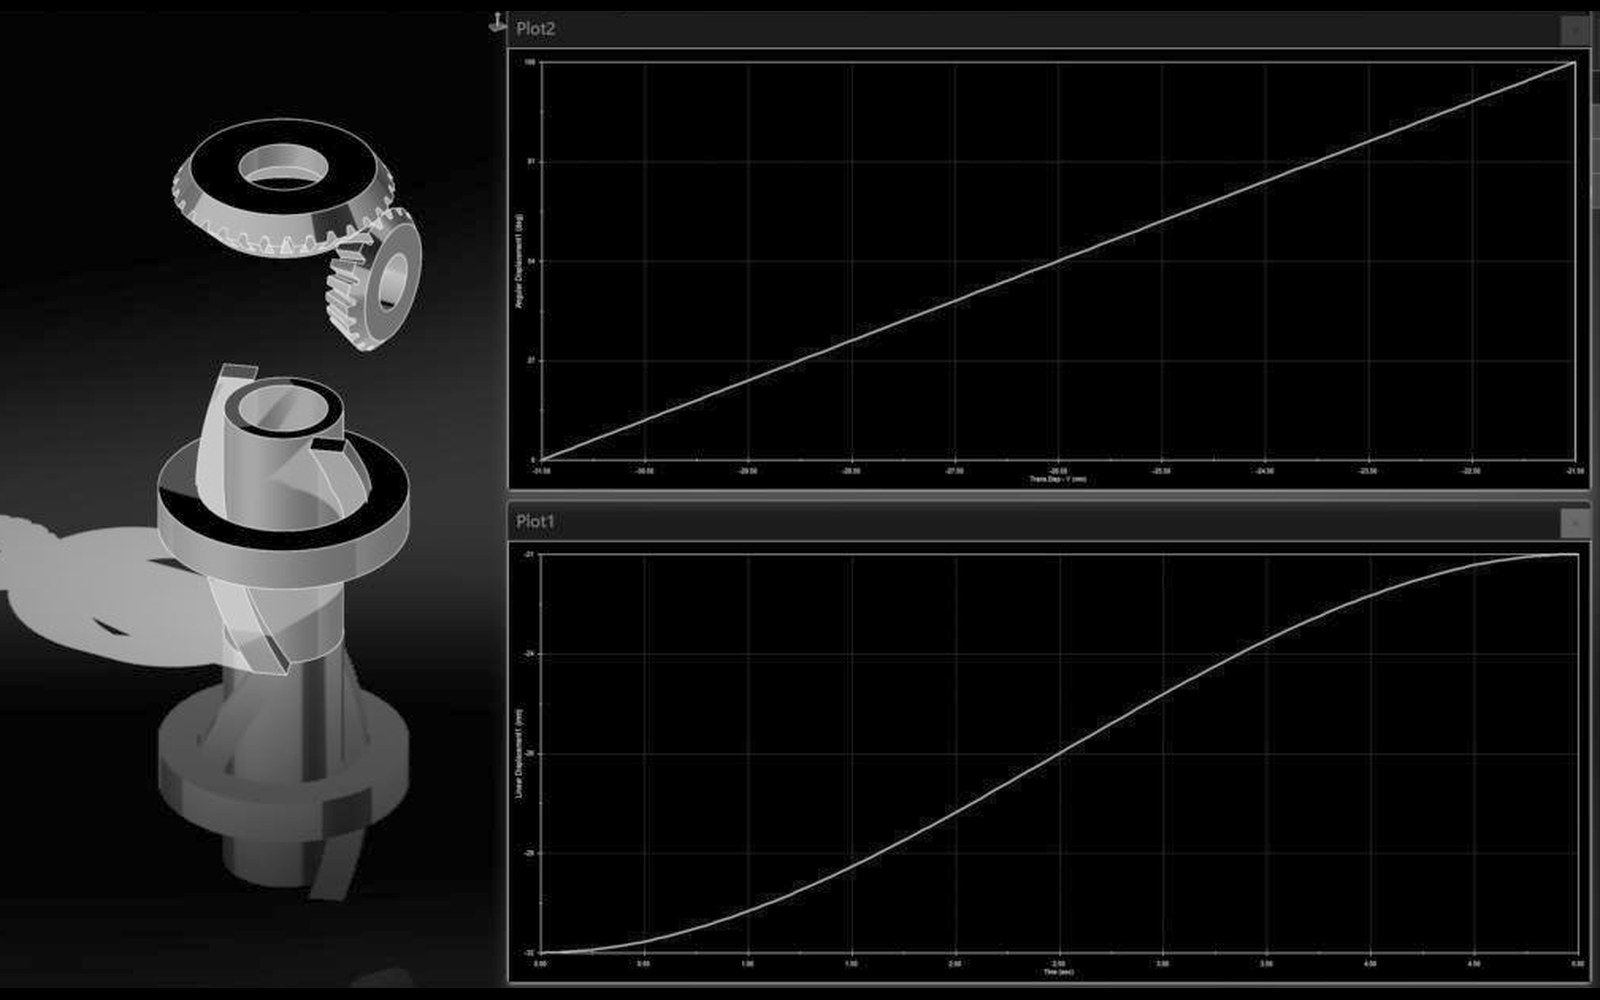
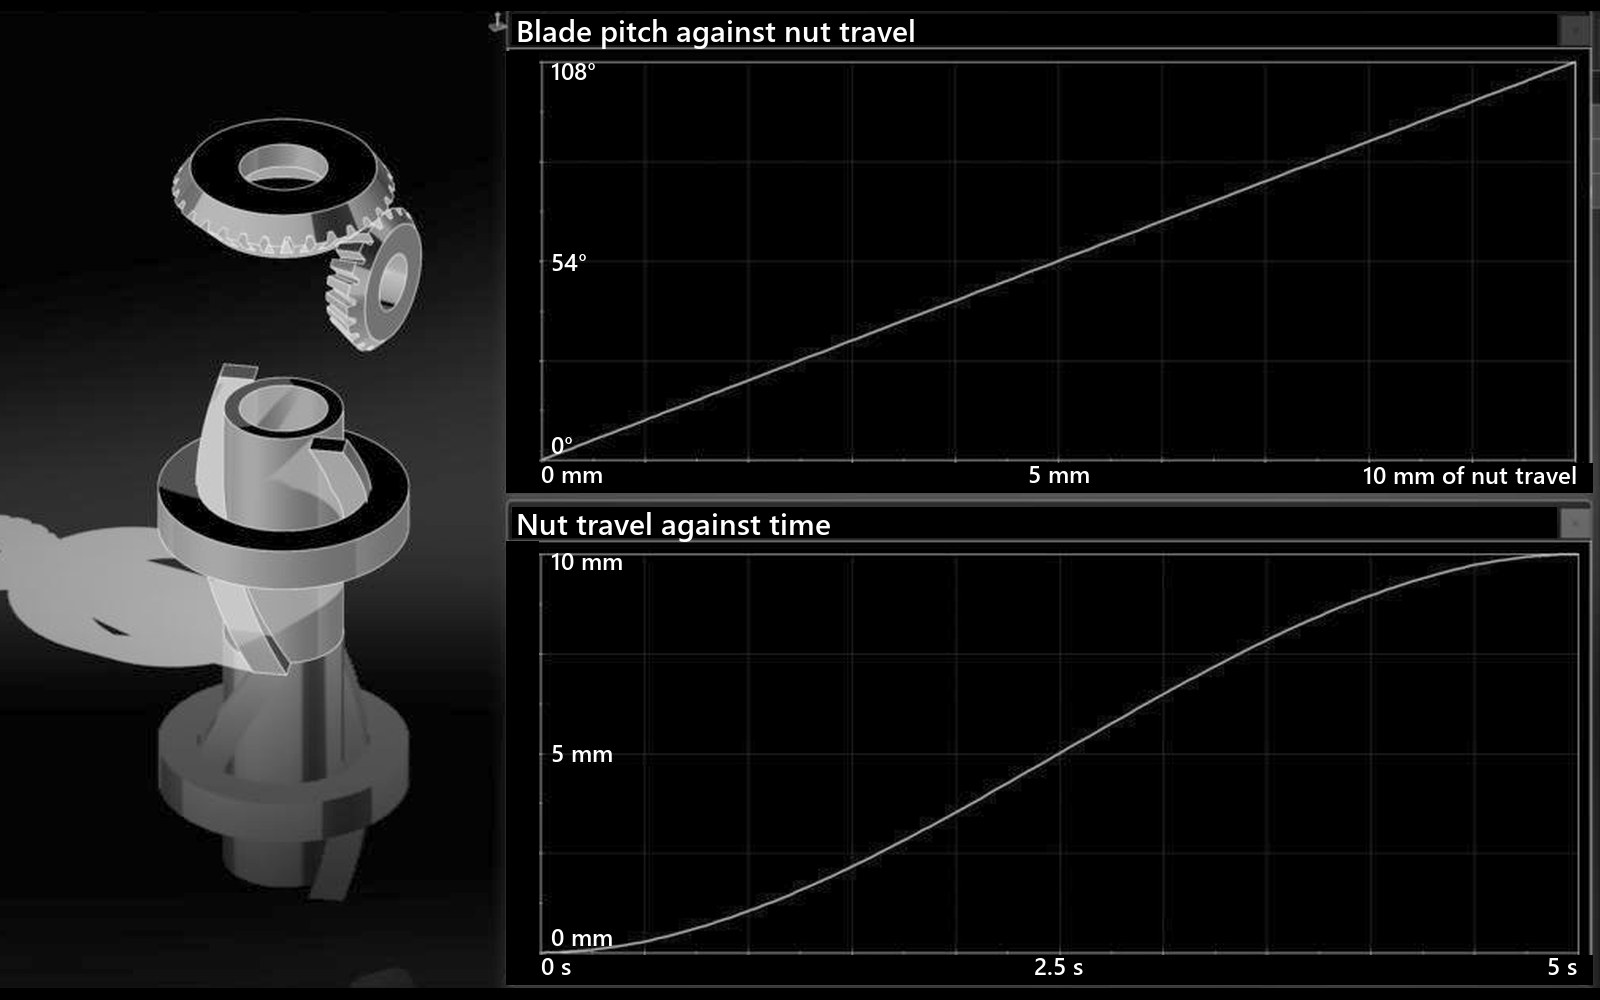
Windpack: relay out the one minute section, label the motion graphs, gears are resin
The one minute cards, the classes and the year two numbers become rows instead
of three column grids and bold lead labels. The classes heading names Dynamics,
Mechanics of Materials and Multivariable Calculus, and the calculus row shows
the helix tangent (59 degrees) and arc length (20.6 mm). The motion study image
gets readable titles and axis labels. The gears are printed in Clear V5 resin,
so the page no longer says metal; step 05 keeps the analysis's call for steel.

diff --git a/projects/windpack.html b/projects/windpack.html
@@ -72,30 +72,37 @@
 
     <section id="glance">
       <h2>The one minute version</h2>
-      <div class="tldr pics">
-        <div>
+      <ol class="arc">
+        <li>
           <img src="/assets/covers/windpack-checkin.jpg" width="1600" height="1000" loading="lazy"
                alt="Four Windpack members at check in for the Collegiate Wind Competition, in front of the competition banner">
-          <p class="tldr-k">What the competition scores</p>
-          <p>A 45 cm turbine in a wind tunnel, scored on power, control, safety and survival.
-          Any visible failure ends the test.</p>
-        </div>
-        <div>
+          <div>
+            <h3>What the competition scores</h3>
+            <p>A 45 cm turbine in a wind tunnel, scored on power, control, safety and survival.
+            Any visible failure ends the test.</p>
+          </div>
+        </li>
+        <li>
           <img src="/assets/figs/windpack-pitch-slide.jpg" width="1600" height="1000" loading="lazy"
                alt="Windpack presenting its season one pitch system to the judges, the slide listing motor selection, gear mesh design and blade attachment as the main issues">
-          <p class="tldr-k">Year one: we fell short</p>
-          <p>Built in one semester. The rotor shook on our only practice run, and the turbine
-          failed tech inspection. We still placed 6th of 10 on reports and presentations.</p>
-        </div>
-        <div>
+          <div>
+            <h3>Year one: we fell short</h3>
+            <p>We built it in one semester. The rotor shook on our only practice run, and the
+            turbine failed tech inspection. We still placed 6th of 10 on reports and
+            presentations.</p>
+          </div>
+        </li>
+        <li>
           <img src="/assets/figs/windpack-standup.jpg" width="1600" height="1000" loading="lazy"
                alt="A sub team lead at a year two all hands, in front of a stand up slide: who you are, what will your team accomplish, what's in your way">
-          <p class="tldr-k">Year two: we stuck together</p>
-          <p>We filled four whiteboards at the retro, and almost nothing on them blamed a part.
-          So we fixed how we work first, grew from 10 members to 35, and designed this turbine
-          for its worst case.</p>
-        </div>
-      </div>
+          <div>
+            <h3>Year two: we stuck together</h3>
+            <p>We filled four whiteboards at the retro, and almost nothing on them blamed a part.
+            So before touching the turbine we fixed how we work. The team grew from 10 members to
+            35, and this time we designed for the worst case, a runaway.</p>
+          </div>
+        </li>
+      </ol>
 
       <div class="proud" id="proudest">
         <p class="ix-k">My proudest engineering accomplishment</p>
@@ -113,68 +120,56 @@
             blade angle. The actuator only ever pushes along the shaft, and the helix turns that
             push into rotation.</p>
             <ol class="chain">
-              <li><b>Push.</b> A linear actuator slides a nut along the shaft. The nut cannot
-              turn.</li>
-              <li><b>Twist.</b> The nut rides a two start helix, so the lead screw inside it has
-              to turn: 72&#176; over the full stroke.</li>
-              <li><b>Gear up.</b> The lead screw is keyed into a 30 tooth central bevel gear.</li>
-              <li><b>Pitch.</b> Three 20 tooth blade gears turn 1.5 times as far: 108&#176; of
-              pitch, every blade at once, from 30 mm of stroke on the 3x model.</li>
+              <li>A linear actuator slides a nut along the shaft. The nut can't turn.</li>
+              <li>The nut rides a two start helix, so the lead screw inside it has to turn,
+              72&#176; over the full stroke.</li>
+              <li>The lead screw is keyed into a 30 tooth central bevel gear.</li>
+              <li>Three 20 tooth blade gears turn 1.5 times as far as the central gear. That's
+              108&#176; of pitch on every blade at once, from 30 mm of stroke on the 3x model.</li>
             </ol>
           </div>
         </article>
 
-        <p class="proud-k">The first time all my classes showed up in one part</p>
+        <p class="proud-k">How I used Dynamics, Mechanics of Materials, and Multivariable Calculus</p>
         <div class="classes">
           <div>
-            <!-- IMAGE TO MAKE: assets/figs/windpack-sw-motion.jpg, 1600 x 1000.
-                 SolidWorks Motion Study on the pitch assembly: the actuator stroke on one axis and
-                 the blade pitch angle on the other (a straight line, 108 deg over the stroke), with
-                 the assembly beside it at mid stroke. Bonus: a second curve of the twisting moment,
-                 peaking at 45 deg. -->
             <a href="/assets/figs/windpack-sw-motion.jpg"><img src="/assets/figs/windpack-sw-motion.jpg" width="1600" height="1000" loading="lazy"
-                 alt="SolidWorks Motion Analysis of the pitch drive. Top plot: blade gear angle against nut travel, a straight line from 0 to 108 degrees over 10 mm. Bottom plot: nut travel over the 5 second run"></a>
-            <p><b>Dynamics.</b> A spinning blade twists toward flat pitch with
+                 alt="SolidWorks Motion Analysis of the pitch drive. Top plot: blade gear angle against nut travel, a straight line from 0 to 108 degrees over 10 mm. Bottom plot: nut travel from 0 to 10 mm over the 5 second run"></a>
+            <p>Dynamics told me where the load is. A spinning blade twists toward flat pitch with
             &#189;&#8201;J&#8201;&#969;&#178;&#8201;sin&#8201;2&#952;, which peaks at 45&#176;, right
-            where feathering passes. The drive is sized there.</p>
+            where feathering passes, so the drive is sized there. The motion study checks the
+            geometry: 10&#160;mm of nut travel gives 108&#176; of pitch, in a straight line.</p>
           </div>
           <div>
-            <!-- IMAGE TO MAKE: assets/figs/windpack-sw-gears.jpg, 1600 x 1000.
-                 The 30T central and 20T blade bevel gears in SolidWorks with the Equations dialog
-                 open beside them: N_central = 30, N_blade = 20, module = 0.5, ratio = N_central /
-                 N_blade = 1.5, pitch cone angle = atan(20 / 30). Dimensions on the model driven
-                 by those names. -->
             <a href="/assets/figs/windpack-sw-gears.jpg"><img src="/assets/figs/windpack-sw-gears.jpg" width="1600" height="1000" loading="lazy"
                  alt="The 30 tooth and 20 tooth bevel gears in SolidWorks beside the Equations dialog: N_central 30, N_blade 20, module 0.5, ratio N_central over N_blade equals 1.5, cone angle atan of 20 over 30 equals 33.69 degrees"></a>
-            <p><b>Solids.</b> The gear teeth carry 64 MPa at twice the pitch torque, so the
-            gears are metal. The ratio comes from equations in the model.</p>
+            <p>Mechanics of Materials sized the teeth. At twice the pitch torque they carry 64&#160;MPa. The gears are
+            printed in Clear V5 resin, and in the model the tooth counts, the ratio and the cone
+            angle are named equations.</p>
           </div>
           <div>
-            <!-- IMAGE TO MAKE: assets/figs/windpack-sw-helix.jpg, 1600 x 1000.
-                 The helical lead screw in SolidWorks built from an Equation Driven Curve:
-                 x = r cos(t), y = r sin(t), z = lead * t / (2 pi), with the Equations dialog
-                 showing lead and starts (2) as named variables tied to the 72 deg over the stroke.
-                 The curve highlighted, the swept rib shown. -->
             <a href="/assets/figs/windpack-sw-helix.jpg"><img src="/assets/figs/windpack-sw-helix.jpg" width="1600" height="1000" loading="lazy"
                  alt="The two start lead screw in SolidWorks beside the Equations dialog: stroke 10, turn 72, lead equals stroke times 360 over turn equals 50, starts 2, core and tip radii, length 17.7"></a>
-            <p><b>Multivariable calculus.</b> The helix is a parametric curve, and the force on
-            it depends on pitch angle and rotor speed: 13 to 23 N at the nut for a normal
-            shutdown, 90 to 160 N at runaway.</p>
+            <p>Multivariable Calculus drew the helix. It's a space curve,
+            <i>r</i>(<i>t</i>)&#160;=&#160;(<i>r</i>&#8201;cos&#8201;<i>t</i>,
+            <i>L</i><i>t</i>/2&#960;, <i>r</i>&#8201;sin&#8201;<i>t</i>), with the lead <i>L</i> set
+            by 72&#176; of turn over the stroke. Its tangent vector says the rib climbs at 59&#176;
+            to the horizontal, and its arc length gives each rib, 20.6&#160;mm on this screw, which matches SolidWorks.</p>
           </div>
         </div>
         <a class="cta" href="#s7">Read step 07, the actuator numbers &#8595;</a>
       </div>
 
       <p class="ix-k">What went into year two</p>
-      <ul class="tally">
-        <li><b>38 page</b> critical design review, built with my team</li>
-        <li><b>11 page</b> <a href="/assets/docs/windpack-blade-root-analysis.pdf" target="_blank" rel="noopener">blade root analysis</a>, every rotating part checked against a runaway</li>
-        <li><b>27 requirements</b>, each traced to a rule or our own analysis</li>
-        <li><b>14 tests</b> with pass criteria, on our own rigs</li>
-        <li><b>13 weaknesses</b> found in the first hub concept, each with a fix</li>
-        <li><b>6 pitch actuators</b> compared against the twisting moment</li>
-        <li><b>3 test rigs</b>: a blade dynamometer, a rotor stand, a generator dynamometer</li>
-        <li><b>10 to 35 members</b>, now in nine sub teams</li>
+      <ul class="ledger">
+        <li><span class="n">38</span> <span>pages in the critical design review, written with my team</span></li>
+        <li><span class="n">11</span> <span>pages of <a href="/assets/docs/windpack-blade-root-analysis.pdf" target="_blank" rel="noopener">blade root analysis</a>, every rotating part checked against a runaway</span></li>
+        <li><span class="n">27</span> <span>requirements, each traced to a rule or to our own analysis</span></li>
+        <li><span class="n">14</span> <span>tests with pass criteria, run on our own rigs</span></li>
+        <li><span class="n">13</span> <span>weaknesses found in the first hub concept, each with a fix</span></li>
+        <li><span class="n">6</span> <span>pitch actuators compared against the twisting moment</span></li>
+        <li><span class="n">3</span> <span>test rigs: a blade dynamometer, a rotor stand and a generator dynamometer</span></li>
+        <li><span class="n">35</span> <span>members, up from 10, now in nine sub teams</span></li>
       </ul>
 
       <p class="ix-k">The work, by discipline</p>
@@ -660,7 +655,8 @@
       percent.</p>
 
       <p><strong>Bevel gears.</strong> Three equal miter gears around one central gear collide. A
-      30:20 set clears by 2 mm, and at 64 MPa in the teeth they have to be steel.</p>
+      30:20 set clears by 2 mm. The analysis put 64 MPa in the teeth and called for steel;
+      prototype one prints them in Clear V5 resin.</p>
 
       <p><strong>Machine the housing.</strong> The lip that carries the pull has a safety factor of
       10 in aluminum and 1.9 in printed PLA.</p>

diff --git a/assets/css/wind.css b/assets/css/wind.css
@@ -173,10 +173,38 @@
 
 .case-body .proud-k { font-size: 21px; line-height: 1.3; font-weight: 600; color: var(--text); margin: 30px 0 16px; }
 
-/* three classes, each with the screenshot that proves it */
-.classes { display: grid; grid-template-columns: repeat(3, 1fr); gap: 26px var(--gap); margin: 0 0 22px; }
-.case-body .classes p { font-size: 15px; line-height: 1.55; color: var(--ink); margin: 12px 0 0; }
+/* three classes, one row each: the screenshot big enough to read, the class beside it */
+.classes { margin: 0 0 22px; border-top: 1px solid var(--rule); }
+.classes > div {
+  display: grid; grid-template-columns: minmax(0, 1.2fr) minmax(0, 1fr); gap: 18px 32px;
+  align-items: center; padding: 22px 0; border-bottom: 1px solid var(--rule);
+}
+.case-body .classes p { font-size: 16px; line-height: 1.6; color: var(--text); margin: 0; max-width: 46ch; }
 .classes img { display: block; width: 100%; height: auto; aspect-ratio: 16 / 10; }
+
+/* the one minute version, told in order: photo, then what happened */
+.case-body .arc { list-style: none; padding: 0; margin: 0 0 8px; border-top: 1px solid var(--rule); }
+.case-body .arc li {
+  display: grid; grid-template-columns: 260px 1fr; gap: 16px 28px; align-items: center;
+  margin: 0; padding: 18px 0; border-bottom: 1px solid var(--rule);
+}
+.arc img { width: 100%; aspect-ratio: 16 / 10; object-fit: cover; }
+.case-body .arc h3 { font-size: 19px; line-height: 1.3; font-weight: 600; margin: 0 0 6px; }
+.case-body .arc p { font-size: 16px; line-height: 1.6; color: var(--text); margin: 0; max-width: 58ch; }
+
+/* what went into year two: the number in its own column, the sentence after it */
+.case-body .ledger {
+  list-style: none; padding: 0; margin: 0 0 22px; max-width: none;
+  display: grid; grid-template-columns: 1fr 1fr; column-gap: 44px; border-top: 1px solid var(--rule);
+}
+.case-body .ledger li {
+  display: grid; grid-template-columns: 58px 1fr; gap: 14px; align-items: baseline;
+  margin: 0; padding: 12px 0; border-bottom: 1px solid var(--rule);
+  font-size: 16px; line-height: 1.45; color: var(--text);
+}
+.ledger .n { font-size: 26px; font-weight: 600; letter-spacing: -0.01em; font-variant-numeric: tabular-nums; text-align: right; }
+.case-body .ledger a { border-bottom: 1px solid var(--rule); }
+.case-body .ledger a:hover { border-bottom-color: var(--text); }
 
 /* a frame for an image that is still being made: honest, and easy to swap for the img */
 .shot {
@@ -207,7 +235,8 @@
   .wx, .wx.big { grid-template-columns: 1fr; padding: 24px 0; }
   .case-body .wx h3 { font-size: 19px; }
   .case-head .cover-say { font-size: 17px; }
-  .classes { grid-template-columns: 1fr; }
+  .classes > div, .case-body .arc li { grid-template-columns: 1fr; }
+  .case-body .ledger { grid-template-columns: 1fr; }
   .case-body .proud .wx h3 { font-size: 21px; }
   .me-mark text { font-size: 72px; }
   .me-mark path { stroke-width: 2.5px; }
